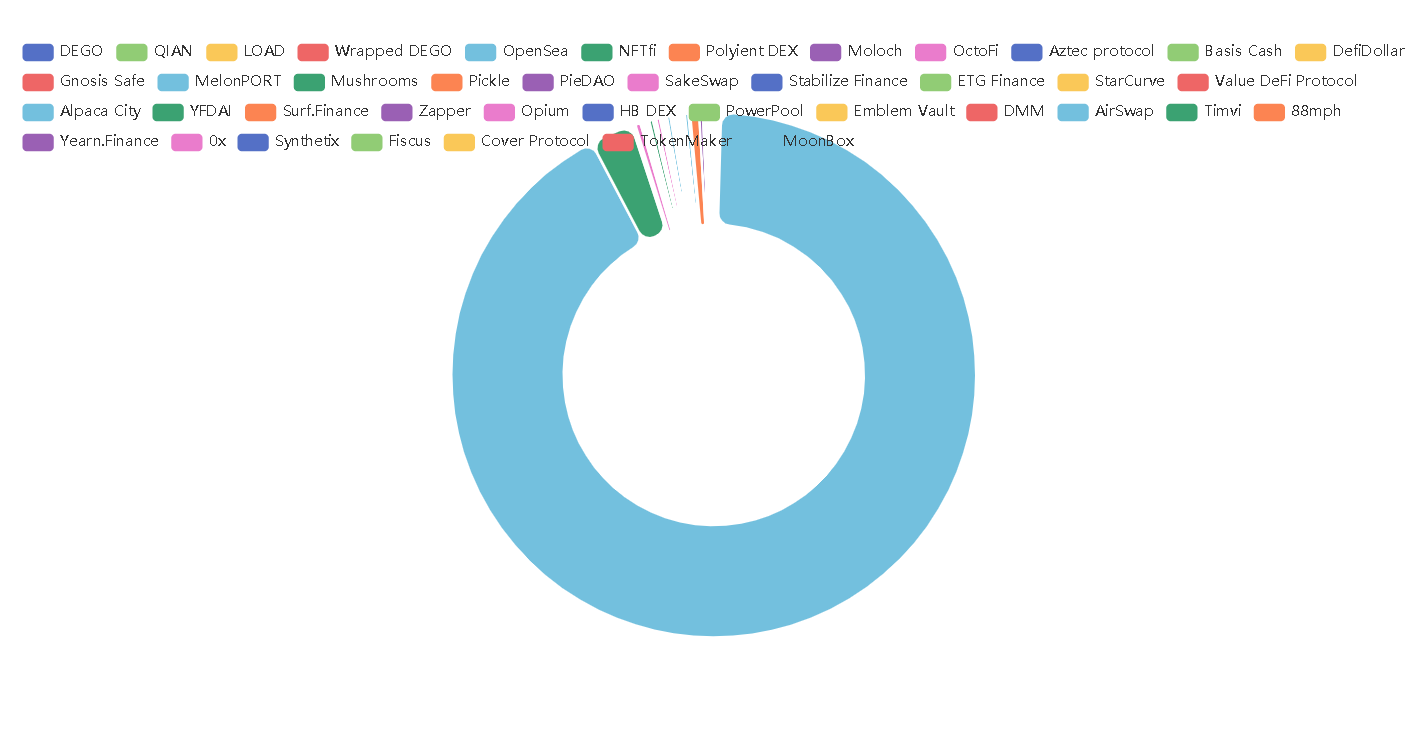
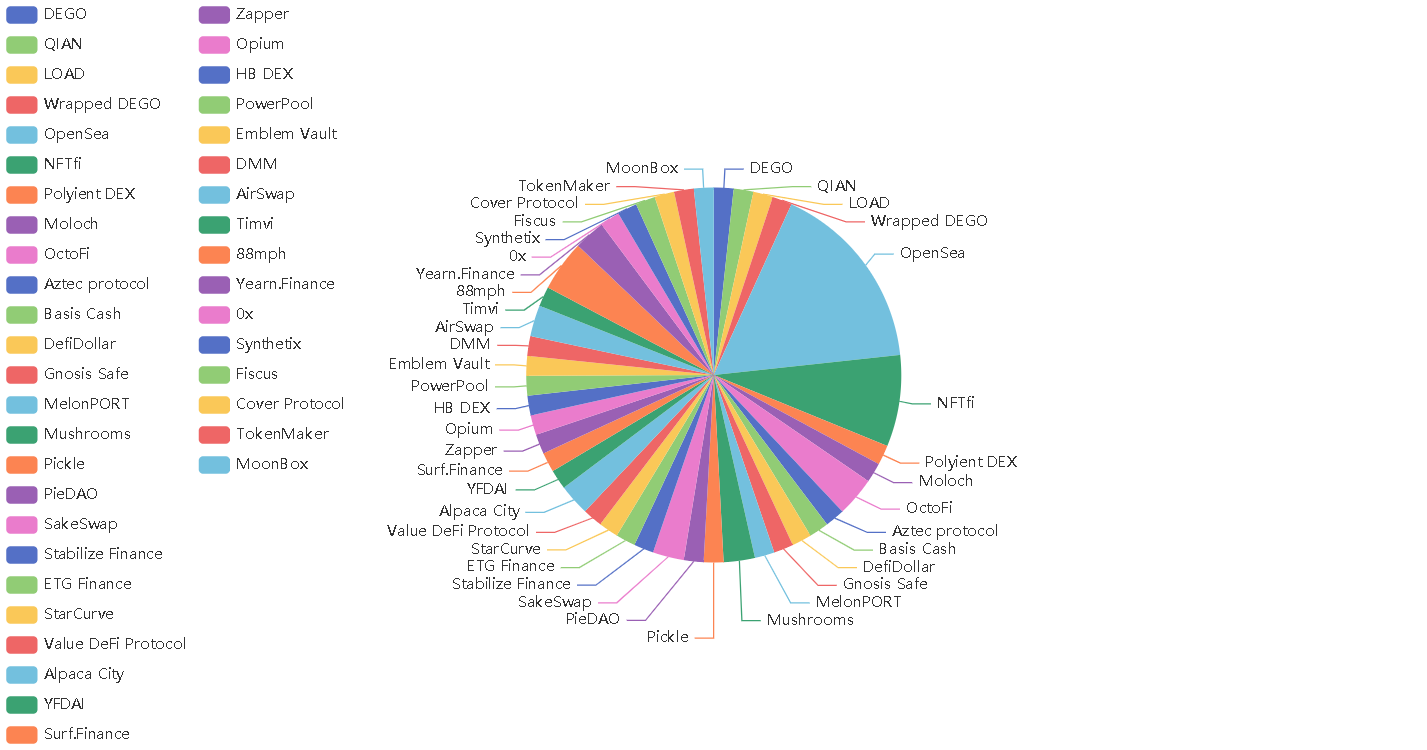
上线版本

diff --git a/src/components/simple_pie_chart.vue b/src/components/simple_pie_chart.vue
@@ -3,15 +3,15 @@
     <div style="width: 80%; margin-left: 10%">
       <el-card shadow="always" v-loading="loading">
         <div style="font-size: 30px">{{chartname}}</div>
-        <div class="echart" id="echart-pie" :style="{float:'left',width: '100%', height: '600px'}"></div>
+        <div class="echart" id="echart-simple-pie" :style="{float:'left',width: '100%', height: '600px'}"></div>
       </el-card>
     </div>
   </div>
 </template>
 
 <script>
-import * as echarts from 'echarts';
 import $ from "jquery";
+import * as echarts from "echarts";
 
 export default {
   data() {
@@ -29,13 +29,13 @@ export default {
         var Data = [];
         for (let name in graph){
           let app = {
-            value: graph[name],
+            value: Math.log(graph[name]+1),
             name: name
           }
           Data.push(app);
         }
 
-        var chartDom = document.getElementById('echart-pie');
+        var chartDom = document.getElementById('echart-simple-pie');
         var myChart = echarts.init(chartDom);
         var option;
 
@@ -49,38 +49,27 @@ export default {
             }
           },
           legend: {
-            top: '5%',
-            left: 'center'
+            orient: 'vertical',
+            left: 'left',
           },
           series: [
             {
+              name: '访问来源',
               type: 'pie',
-              radius: ['40%', '70%'],
-              avoidLabelOverlap: false,
-              itemStyle: {
-                borderRadius: 10,
-                borderColor: '#fff',
-                borderWidth: 2
-              },
-              label: {
-                show: false,
-                position: 'center'
-              },
+              radius: '50%',
+              data: Data,
               emphasis: {
-                label: {
-                  show: true,
-                  fontSize: '40',
-                  fontWeight: 'bold'
+                itemStyle: {
+                  shadowBlur: 10,
+                  shadowOffsetX: 0,
+                  shadowColor: 'rgba(0, 0, 0, 0.5)'
                 },
                 focus: 'data'
-              },
-              labelLine: {
-                show: false
-              },
-              data: Data,
+              }
             }
           ]
         };
+
         option && myChart.setOption(option);
       });
     }

diff --git a/src/components/nightingale_chart.vue b/src/components/nightingale_chart.vue
@@ -3,15 +3,15 @@
     <div style="width: 80%; margin-left: 10%">
       <el-card shadow="always" v-loading="loading">
         <div style="font-size: 30px">{{chartname}}</div>
-        <div class="echart" id="echart-pie" :style="{float:'left',width: '100%', height: '600px'}"></div>
+        <div class="echart" id="echart-nightingale" :style="{float:'left',width: '100%', height: '600px'}"></div>
       </el-card>
     </div>
   </div>
 </template>
 
 <script>
-import * as echarts from 'echarts';
 import $ from "jquery";
+import * as echarts from "echarts";
 
 export default {
   data() {
@@ -35,47 +35,32 @@ export default {
           Data.push(app);
         }
 
-        var chartDom = document.getElementById('echart-pie');
+        var chartDom = document.getElementById('echart-nightingale');
         var myChart = echarts.init(chartDom);
         var option;
 
         option = {
-          tooltip: {
-            trigger: 'item'
+          legend: {
+            top: 'bottom'
           },
           toolbox: {
+            show: true,
             feature: {
-              saveAsImage: {}
+              mark: {show: true},
+              dataView: {show: true, readOnly: false},
+              restore: {show: true},
+              saveAsImage: {show: true}
             }
-          },
-          legend: {
-            top: '5%',
-            left: 'center'
           },
           series: [
             {
+              name: '面积模式',
               type: 'pie',
-              radius: ['40%', '70%'],
-              avoidLabelOverlap: false,
+              radius: [50, 250],
+              center: ['50%', '50%'],
+              roseType: 'area',
               itemStyle: {
-                borderRadius: 10,
-                borderColor: '#fff',
-                borderWidth: 2
-              },
-              label: {
-                show: false,
-                position: 'center'
-              },
-              emphasis: {
-                label: {
-                  show: true,
-                  fontSize: '40',
-                  fontWeight: 'bold'
-                },
-                focus: 'data'
-              },
-              labelLine: {
-                show: false
+                borderRadius: 8
               },
               data: Data,
             }

diff --git a/src/router/index.js b/src/router/index.js
@@ -5,6 +5,8 @@ import linechart from "@/components/linechart";
 import topology_chart from "@/components/topology_chart";
 import line_column_chart from "@/components/line_column_chart";
 import pie_chart from "@/components/pie_chart";
+import nightingale_chart from "@/components/nightingale_chart";
+import simple_pie_chart from "@/components/simple_pie_chart";
 
 Vue.use(Router)
 
@@ -39,6 +41,16 @@ export default new Router({
       path: '/charts/pie/:name',
       name: 'pie-chart',
       component: pie_chart,
+    },
+    {
+      path: '/charts/nightingale/:name',
+      name: 'nightingale-chart',
+      component: nightingale_chart,
+    },
+    {
+      path: '/charts/simplepie/:name',
+      name: 'simplepie-chart',
+      component: simple_pie_chart,
     },
   ]
 })

diff --git a/src/components/Navigation.vue b/src/components/Navigation.vue
@@ -19,7 +19,7 @@
       <p class="p_link">About us</p>
     </router-link>
 
-    <a href='https://github.com/MoneyMakerCqf/defi_analyze/tree/main' style="width: fit-content" target="_blank">
+    <a href='https://github.com/MoneyMakerCqf/defi_analyze/tree/master' style="width: fit-content" target="_blank">
       <div class="div_logo">
         <el-image
             style="width: 60px; height: 60px;"

diff --git a/vue.config.js b/vue.config.js
@@ -5,6 +5,8 @@ function resolve(dir) {
 }
 module.exports = {
     outputDir: 'dist',
+    runtimeCompiler: true,
+    publicPath: './',
 
     // 是否为生产环境构建生成 source map？
     productionSourceMap: false,
@@ -27,7 +29,6 @@ module.exports = {
             }
         }
     },
-
 
     // 配置 webpack-dev-server 行为。
     devServer: {

diff --git a/src/components/line_column_chart.vue b/src/components/line_column_chart.vue
@@ -25,7 +25,7 @@ export default {
   },
   methods: {
     initChart(){
-      $.getJSON('http://localhost:8282/qm/'+ this.chartname + '.json', function (graph) {
+      $.getJSON('http://10.20.0.57/'+ this.chartname + '.json', function (graph) {
         // 数据处理读入
         let xData = [];
         let yData_in = [];

diff --git a/src/components/linechart.vue b/src/components/linechart.vue
@@ -25,7 +25,7 @@ export default {
   },
   methods: {
     initChart(){
-      $.getJSON('http://localhost:8282/qm/'+ this.chartname +'.json', function (graph) {
+      $.getJSON('http://10.20.0.57/'+ this.chartname +'.json', function (graph) {
         let label = [];
         let xData = [];
         let yData = [];

diff --git a/src/components/topology_chart.vue b/src/components/topology_chart.vue
@@ -24,7 +24,7 @@ export default {
     initCharts() {
 
       var myChart = echarts.init(document.getElementById("echart-topology"));
-      var ROOT_PATH = 'http://localhost:8282/qm/';
+      var ROOT_PATH = 'http://10.20.0.57/';
       var option;
 
       myChart.showLoading();

diff --git a/src/components/home.vue b/src/components/home.vue
@@ -46,7 +46,7 @@ export default {
         },
         {
             img_src: '../assets/nft-market.png',
-            path: '/charts/pie/nft-market-share',
+            path: '/charts/simplepie/nft-market-share',
             intro: 'nft market share',
         },
         ],
